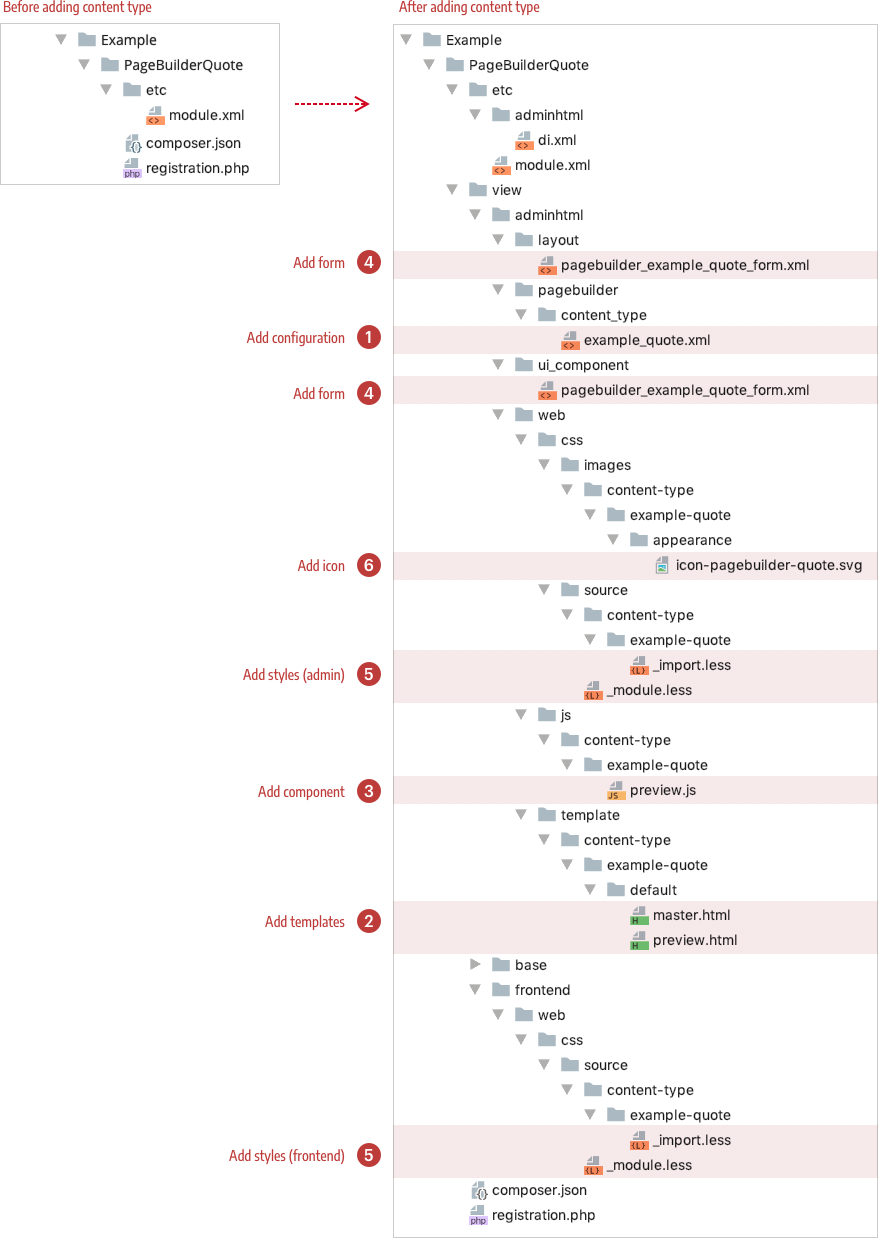
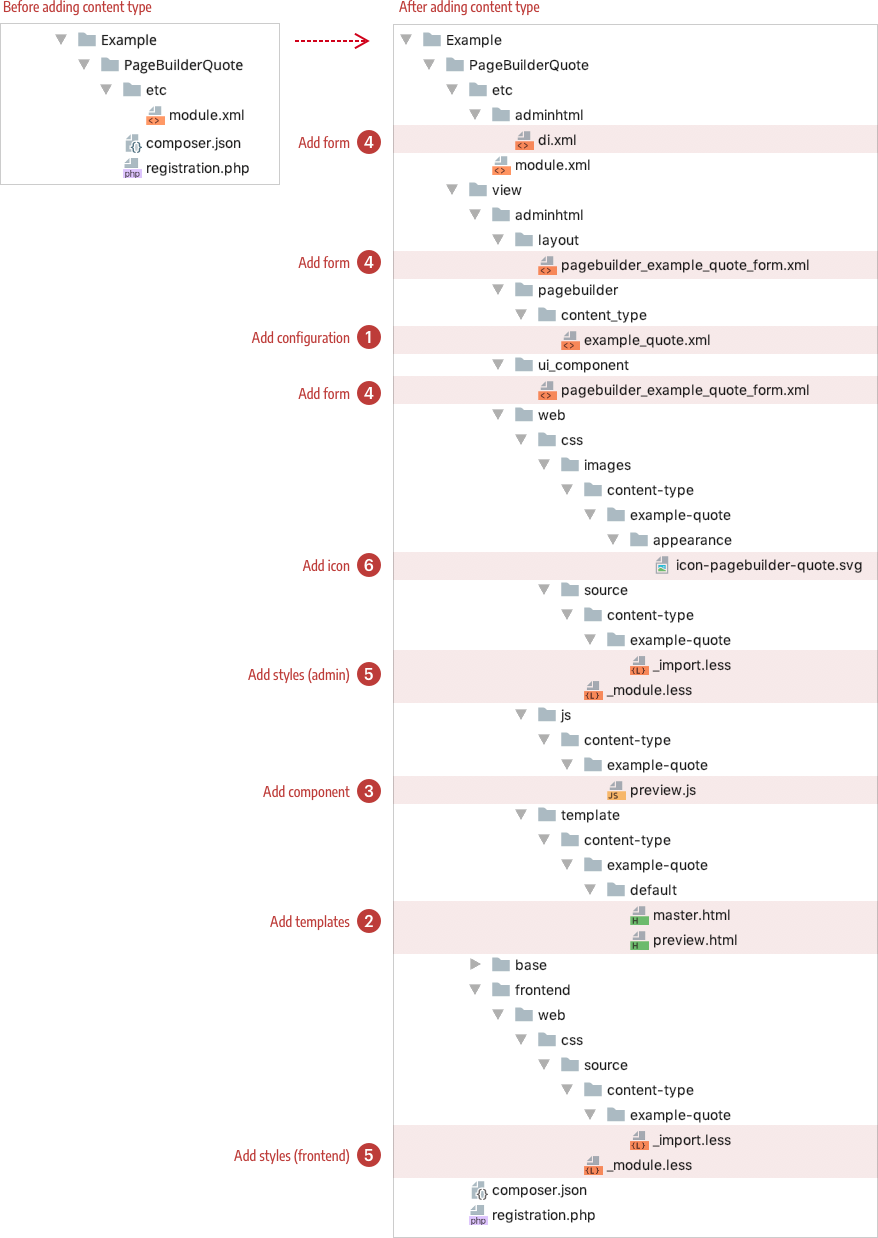
MAGEDOC-3483: Fix Quote content type
Added default appearance to the form code and updated the overview to include the di.xml as part of step 4 forms

diff --git a/docs/create-basic-content-type/step-4-add-form.md b/docs/create-basic-content-type/step-4-add-form.md
@@ -102,6 +102,45 @@ The Quote form is shown in full here for you to copy into your `pagebuilder_exam
             </settings>
         </dataProvider>
     </dataSource>
+    <fieldset name="appearance_fieldset" sortOrder="10" component="Magento_PageBuilder/js/form/element/dependent-fieldset">
+        <settings>
+            <label translate="true">Appearance</label>
+            <additionalClasses>
+                <class name="admin__fieldset-visual-select-large">true</class>
+            </additionalClasses>
+            <collapsible>false</collapsible>
+            <opened>true</opened>
+            <imports>
+                <link name="hideFieldset">${$.name}.appearance:options</link>
+                <link name="hideLabel">${$.name}.appearance:options</link>
+            </imports>
+        </settings>
+        <field name="appearance" formElement="select" sortOrder="10" component="Magento_PageBuilder/js/form/element/dependent-visual-select">
+            <argument name="data" xsi:type="array">
+                <item name="config" xsi:type="array">
+                    <item name="default" xsi:type="string">default</item>
+                </item>
+            </argument>
+            <settings>
+                <additionalClasses>
+                    <class name="admin__field-wide">true</class>
+                    <class name="admin__field-visual-select-container">true</class>
+                </additionalClasses>
+                <dataType>text</dataType>
+                <validation>
+                    <rule name="required-entry" xsi:type="boolean">true</rule>
+                </validation>
+                <elementTmpl>Magento_PageBuilder/form/element/visual-select</elementTmpl>
+            </settings>
+            <formElements>
+                <select>
+                    <settings>
+                        <options class="AppearanceSourceQuote"/>
+                    </settings>
+                </select>
+            </formElements>
+        </field>
+    </fieldset>
     <fieldset name="general" sortOrder="20">
         <settings>
             <label/>
@@ -109,7 +148,7 @@ The Quote form is shown in full here for you to copy into your `pagebuilder_exam
         <field name="quote_text" sortOrder="10" formElement="textarea">
             <argument name="data" xsi:type="array">
                 <item name="config" xsi:type="array">
-                  <item name="source" xsi:type="string">page</item>
+                    <item name="source" xsi:type="string">page</item>
                 </item>
             </argument>
             <settings>
@@ -121,7 +160,7 @@ The Quote form is shown in full here for you to copy into your `pagebuilder_exam
         <field name="quote_author" sortOrder="20" formElement="input">
             <argument name="data" xsi:type="array">
                 <item name="config" xsi:type="array">
-                  <item name="source" xsi:type="string">page</item>
+                    <item name="source" xsi:type="string">page</item>
                 </item>
             </argument>
             <settings>
@@ -144,19 +183,48 @@ The Quote form is shown in full here for you to copy into your `pagebuilder_exam
         </field>
         <field name="quote_css" sortOrder="40" formElement="input">
             <argument name="data" xsi:type="array">
-            <item name="config" xsi:type="array">
-              <item name="source" xsi:type="string">page</item>
-            </item>
+                <item name="config" xsi:type="array">
+                    <item name="source" xsi:type="string">page</item>
+                </item>
             </argument>
             <settings>
-            <dataScope>quote_css</dataScope>
-            <dataType>text</dataType>
-            <label translate="true">CSS for Quote</label>
+                <dataScope>quote_css</dataScope>
+                <dataType>text</dataType>
+                <label translate="true">CSS for Quote</label>
             </settings>
         </field>
     </fieldset>
 </form>
 ```
+
+### appearance fieldset and field
+
+Page Builder requires you to add the `appearance_fieldset` (the first fieldset shown in the form) and its `appearance` field for all your content type forms. Even though our Quote content type doesn’t have any additional appearances, the `appearance` field is still required/expected so that other modules can add appearances to a content type as needed.
+
+To ensure your appearance field renders, you need to create a `di.xml` file located here:
+
+![Create config file](../images/step4-field-appearance-class.png)
+
+ Then add the source implementation as referenced in the `appearance` field: `<options class="AppearanceSourceQuote"/>` as shown here:
+
+```xml
+<?xml version="1.0"?>
+<config xmlns:xsi="http://www.w3.org/2001/XMLSchema-instance" xsi:noNamespaceSchemaLocation="urn:magento:framework:ObjectManager/etc/config.xsd">
+    <virtualType name="AppearanceSourceQuote" type="Magento\PageBuilder\Model\Source\VisualSelect">
+        <arguments>
+            <argument name="optionsSize" xsi:type="string">large</argument>
+            <argument name="optionsData" xsi:type="array">
+                <item name="0" xsi:type="array">
+                    <item name="value" xsi:type="string">default</item>
+                    <item name="title" xsi:type="string" translate="true">Default</item>
+                </item>
+            </argument>
+        </arguments>
+    </virtualType>
+</config>
+```
+
+Again, even though our Quote control doesn't currently define an appearance, we must implement all the parts so that other modules can expect each Page Builder content type to have an appearance defined, even if it is not used. 
 
 ### fieldset
 

diff --git a/docs/create-basic-content-type/step-5-add-styles.md b/docs/create-basic-content-type/step-5-add-styles.md
@@ -71,9 +71,8 @@ If you break your styles into multiple LESS files, make sure you `@import` each 
 The following sample shows the `class` styles used for our Quote content type:
 
 ```css
-// Content type's base styling
+// Content type base styling
 blockquote {
-  .quote-content {
     display: block;
     font-size: 1.2em;
     margin: 1em;
@@ -99,7 +98,6 @@ blockquote {
       line-height: 0;
       margin-left: 0;
     }
-  }
 }
 div {
   &.quote-author {
@@ -269,7 +267,6 @@ The `_import.less` file content for the Admin preview template:
 ```css
 // Content type's base styling
 blockquote {
-  .quote-content {
     display: block;
     font-size: 1.2em;
     margin: 1em;
@@ -295,7 +292,6 @@ blockquote {
       line-height: 0;
       margin-left: 0;
     }
-  }
 }
 div {
   &.quote-author {
@@ -330,7 +326,6 @@ The `_import.less` file content for the master format storefront template:
 ```css
 // Content type's base styling
 blockquote {
-  &.quote-text {
     display: block;
     font-size: 1.2em;
     margin: 1em;
@@ -356,7 +351,6 @@ blockquote {
       line-height: 0;
       margin-left: 0;
     }
-  }
 }
 
 div {
